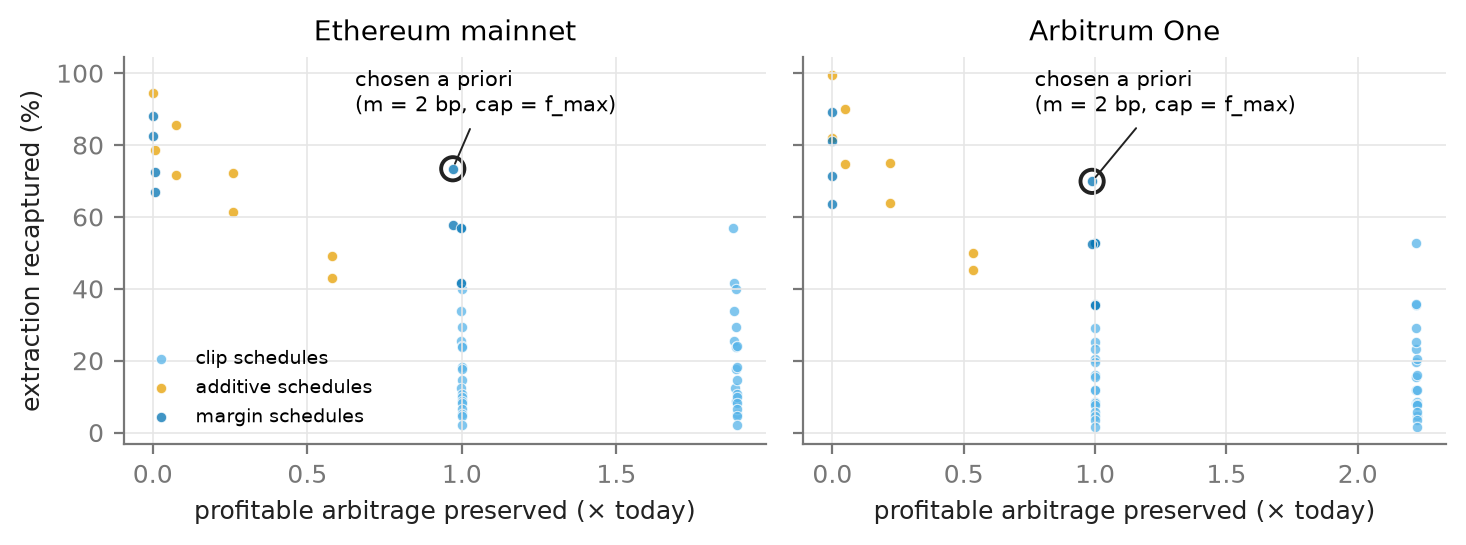
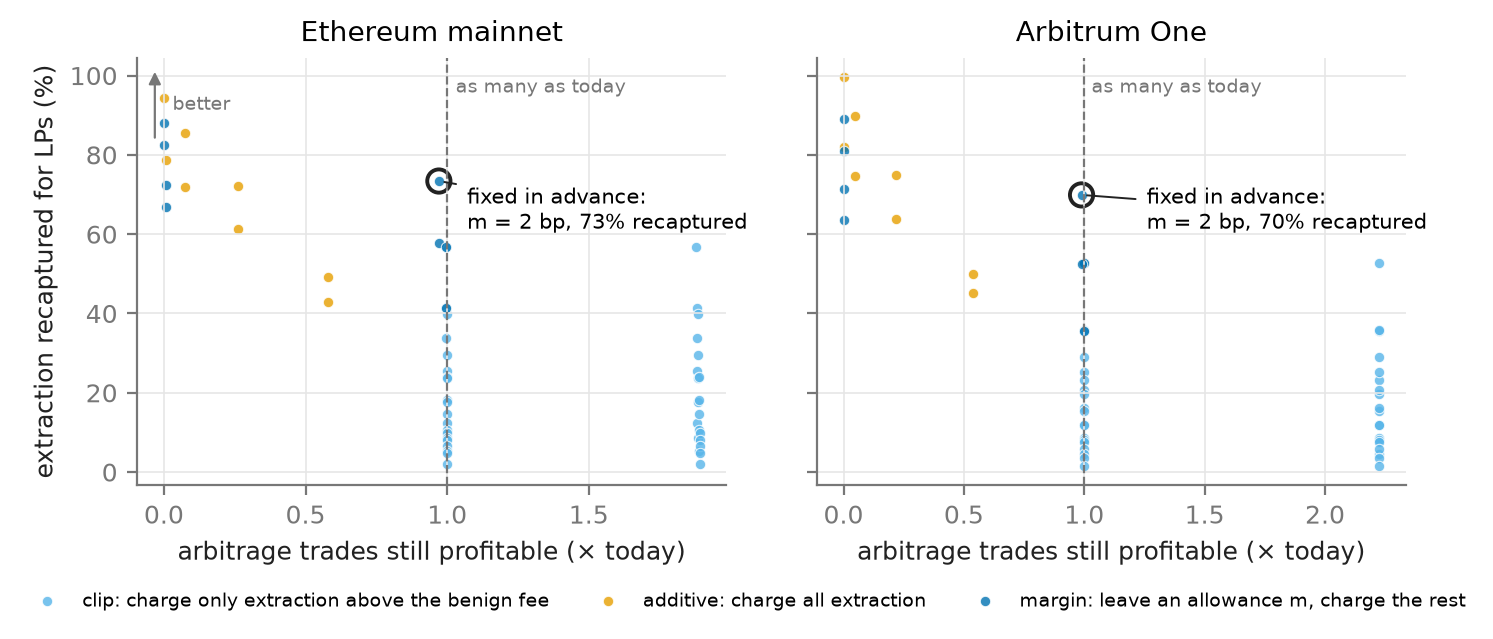
docs: recapture figure explains its axes and the three schedule families
- Improved formatting of Figure 10 with descriptive legend labels, a line at today's level of profitable arbitrage and a direction marker
- Improved documentation of the caption, which defines both axes and what each family of schedules does

diff --git a/pipeline/figures.py b/pipeline/figures.py
@@ -209,22 +209,32 @@ def extraction_by_position() -> None:
 
 
 def recapture_frontier() -> None:
-    fig, axes = plt.subplots(1, 2, figsize=(7.4, 2.8), sharey=True)
-    forms = {"clip": C[4], "additive": C[1], "margin": C[0]}
+    """Study B, static and with perfect information: each dot is one charging schedule applied to every
+    historical swap; recapture against the profitable arbitrage it leaves, relative to today."""
+    fig, axes = plt.subplots(1, 2, figsize=(7.4, 3.0), sharey=True)
+    forms = {"clip": (C[4], "clip: charge only extraction above the benign fee"),
+             "additive": (C[1], "additive: charge all extraction"),
+             "margin": (C[0], "margin: leave an allowance m, charge the rest")}
     for ax, (name, base) in zip(axes, CHAINS.items()):
         b = j(base / "study_b" / "metrics.json")
         sw = b["by_horizon"]["h0"]["sweep_all"]
         base_s = b["by_horizon"]["h0"]["baseline"]["arb_survival"]
-        for form, col in forms.items():
+        ax.axvline(1.0, color=MUTED, lw=0.8, ls="--")
+        ax.text(1.03, 97, "as many as today", fontsize=7, color=MUTED, va="center")
+        for form, (col, lab) in forms.items():
             pts = [(s["arb_survival"] / base_s, s["capture_fraction"] * 100) for s in sw if s["form"] == form]
-            ax.scatter(*zip(*pts), s=14, color=col, alpha=0.75, label=f"{form} schedules", edgecolor="white", lw=0.4)
+            ax.scatter(*zip(*pts), s=14, color=col, alpha=0.8, label=lab, edgecolor="white", lw=0.4)
         obj = [s for s in sw if s["form"] == "margin" and s["m_bps"] == 2.0 and s["cap_bps"] == 500.0][0]
-        ax.scatter([obj["arb_survival"] / base_s], [obj["capture_fraction"] * 100], s=70, facecolor="none", edgecolor=INK, lw=1.4)
-        ax.annotate("chosen a priori\n(m = 2 bp, cap = f_max)", (obj["arb_survival"] / base_s, obj["capture_fraction"] * 100),
-                    xytext=(0.36, 0.86), textcoords="axes fraction", fontsize=7.5, arrowprops=dict(arrowstyle="-", color=INK, lw=0.7))
-        ax.set_title(name); ax.set_xlabel("profitable arbitrage preserved (× today)")
-    axes[0].set_ylabel("extraction recaptured (%)")
-    axes[0].legend(loc="lower left", fontsize=7)
+        x0, y0 = obj["arb_survival"] / base_s, obj["capture_fraction"] * 100
+        ax.scatter([x0], [y0], s=70, facecolor="none", edgecolor=INK, lw=1.4)
+        ax.annotate(f"fixed in advance:\nm = 2 bp, {y0:.0f}% recaptured", (x0, y0), xytext=(0.56, 0.60),
+                    textcoords="axes fraction", fontsize=7.5, arrowprops=dict(arrowstyle="-", color=INK, lw=0.7))
+        ax.set_title(name); ax.set_xlabel("arbitrage trades still profitable (× today)")
+    axes[0].set_ylabel("extraction recaptured for LPs (%)")
+    axes[0].annotate("", xy=(0.03, 0.98), xytext=(0.03, 0.80), xycoords="axes fraction",
+                     arrowprops=dict(arrowstyle="-|>", color=MUTED, lw=0.8))
+    axes[0].text(0.06, 0.89, "better", transform=axes[0].transAxes, fontsize=7, color=MUTED, va="center")
+    fig.legend(*axes[0].get_legend_handles_labels(), loc="lower center", ncol=3, fontsize=7, frameon=False, bbox_to_anchor=(0.5, -0.06))
     save(fig, "fig_recapture_frontier")
 
 

diff --git a/paper.md b/paper.md
@@ -501,7 +501,7 @@ A milder curve stalls arbitrageurs even in calm markets. A steeper one keeps the
 
 ![Recapture frontier](figures/fig_recapture_frontier.png)
 
-*Figure 10. Recapture against profitable arbitrage preserved, for all schedules evaluated.*
+*Figure 10. Charging schedules evaluated statically with the benchmark known exactly, on every historical swap. Each dot is one schedule, a charge on each extracting swap set from its measured extraction. Vertical: share of extraction recaptured for LPs. Horizontal: arbitrage trades that would still be profitable after the charge, relative to today; at 0, corrections no longer pay and the pool would go stale. Charging all extraction recaptures most but leaves no arbitrage; charging only extraction above the benign fee keeps arbitrage but recaptures little, and the clip schedules near 2× also cut the benign fee to 1 bp; leaving an allowance $m$ and charging the rest, the static form of (4b), does both. The schedule fixed in advance, $m$ = 2 bp with charges capped at 500 bp, is circled.*
 
 ![Controller paths](figures/fig_controller_paths.png)
 

diff --git a/paper.rendered.md b/paper.rendered.md
@@ -563,7 +563,7 @@ A milder curve stalls arbitrageurs even in calm markets. A steeper one keeps the
 
 ![Recapture frontier](figures/fig_recapture_frontier.png)
 
-*Figure 10. Recapture against profitable arbitrage preserved, for all schedules evaluated.*
+*Figure 10. Charging schedules evaluated statically with the benchmark known exactly, on every historical swap. Each dot is one schedule, a charge on each extracting swap set from its measured extraction. Vertical: share of extraction recaptured for LPs. Horizontal: arbitrage trades that would still be profitable after the charge, relative to today; at 0, corrections no longer pay and the pool would go stale. Charging all extraction recaptures most but leaves no arbitrage; charging only extraction above the benign fee keeps arbitrage but recaptures little, and the clip schedules near 2× also cut the benign fee to 1 bp; leaving an allowance $m$ and charging the rest, the static form of (4b), does both. The schedule fixed in advance, $m$ = 2 bp with charges capped at 500 bp, is circled.*
 
 ![Controller paths](figures/fig_controller_paths.png)
 
